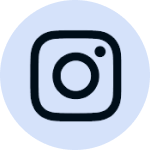
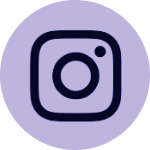
novo design

diff --git a/src/pages/Forms.jsx b/src/pages/Forms.jsx
@@ -44,24 +44,24 @@ export default function Forms() {
                         placeholder="Nome" 
                         onChange={(e) => setName(e.target.value)}
                         value={name}
-                        className="bg-foxus placeholder:text-ph mb-10 border-b-8 border-spectrum py-2 focus:outline-none text-3xl rounded-b-md"/>
+                        className="bg-foxus placeholder:text-ph mb-10 border-b-8 border-tpg py-2 focus:outline-none text-3xl rounded-b-md"/>
 
                         <input 
                         type="email" 
                         placeholder="E-mail"
                         onChange={(e) => setEmail(e.target.value)}
                         value={email}
-                        className="bg-foxus placeholder:text-ph mb-10 border-b-8 border-spectrum py-2 focus:outline-none text-3xl rounded-b-md"/>
+                        className="bg-foxus placeholder:text-ph mb-10 border-b-8 border-tpg py-2 focus:outline-none text-3xl rounded-b-md"/>
 
                         <input
                         type="text" 
                         placeholder="Mensagem" 
                         onChange={(e) => setMessage(e.target.value)}
                         value={message}
-                        className="bg-foxus placeholder:text-ph mb-10 border-b-8 border-spectrum py-2 focus:outline-none text-3xl rounded-b-md"/>
+                        className="bg-foxus placeholder:text-ph mb-10 border-b-8 border-tpg py-2 focus:outline-none text-3xl rounded-b-md"/>
 
                         <div className="flex justify-center mt-10">
-                            <button type='submit' value="enviar" className="px-16 py-4 bg-spectrum text-foxus font-bold rounded-full focus:outline-none text-4xl">Enviar</button>
+                            <button type='submit' value="enviar" className="px-16 py-4 bg-tpg text-foxus font-bold rounded-full focus:outline-none text-4xl">Enviar</button>
                         </div>
 
                     </form>

diff --git a/src/pages/Novidades.jsx b/src/pages/Novidades.jsx
@@ -32,7 +32,7 @@ export default function Novidades() {
             </div>
 
             <div className="flex justify-center">
-                <div className="md:text-[40px] text-[25px] md:mt-16 mt-10 md:w-9/12 w-11/12 text-center md:leading-tight text-spectrum/40">
+                <div className="md:text-[40px] text-[25px] md:mt-16 mt-10 md:w-9/12 w-11/12 text-center md:leading-tight text-tpg/90">
                     <p>
                     Registre seu e-mail para receber novidades sobre o lançamento do app!
                     </p>
@@ -45,10 +45,10 @@ export default function Novidades() {
                     placeholder="E-mail"
                     onChange={(e) => setEmail(e.target.value)}
                     value={email} 
-                    className="bg-foxus placeholder:text-ph mb-10 border-b-8 border-spectrum py-2 focus:outline-none text-3xl rounded-b-md"/>
+                    className="bg-foxus placeholder:text-ph mb-10 border-b-8 border-tpg py-2 focus:outline-none text-3xl rounded-b-md"/>
 
                     <div className="flex justify-center mt-10">
-                        <button type="submit" className="px-16 py-4 bg-spectrum text-foxus font-bold rounded-full focus:outline-none text-4xl">Registrar</button>
+                        <button type="submit" className="px-16 py-4 bg-tpg text-foxus font-bold rounded-full focus:outline-none text-4xl">Registrar</button>
                     </div>
                 </form>
             </div>

diff --git a/src/pages/Projeto.jsx b/src/pages/Projeto.jsx
@@ -1,0 +1,30 @@
+import Carrossel from "../components/Carrossel"
+
+export default function Projeto() {
+    return(
+        <>
+        <div className="flex flex-col md:pt-24">
+            <div>
+                <div className="flex justify-center md:pt-10 pt-10">
+                    <h1 className="md:text-6xl text-5xl md:w-full w-11/12 text-center">Nosso projeto</h1>
+                </div>
+            </div>
+            <div className="flex flex-row">
+                <div className="flex justify-center space-x-52">
+                    <div className="md:text-[30px] md:mt-16 md:w-4/12 text-start mt-10 text-xl w-11/12 md:leading-tight space-y-5 text-tpg/90">
+                        <p>
+
+                            A versão beta do nosso aplicativo contará com funções como mood tracker, agenda compartilhada, to-do, organização e monitoração de medicamentos e um botão de emergência para crises, facilitando a organização da pessoa neurodivergente e de sua família, e também permitindo um monitoramento mais amplo sobre suas crises. O app também inclui implementação da linguagem C.A.A e acesso rápido a histórias socias.
+
+                        </p>
+                    </div>
+                    <div className="md:flex md:items-center">
+                        <Carrossel />
+                    </div>
+                </div>
+            </div>
+        </div>
+        </>
+        
+    )
+}

diff --git a/src/components/Navbar.jsx b/src/components/Navbar.jsx
@@ -19,7 +19,7 @@ export default function Navbar() {
           </button>
         </div>
         <div className='hidden lg:block'>
-            <ul className={`flex flex-row items-center text-foxus text-2xl font-bold space-x-16`}>
+            <ul className={`flex flex-row items-center text-nav text-2xl font-bold space-x-16`}>
                 <li><a href="#sobre">Sobre nós</a></li>
                 <li><a href="#contato">Contato</a></li>
                 <li><a href="#novas">Novidades</a></li>
@@ -27,7 +27,7 @@ export default function Navbar() {
         </div>
       </div>
       <div className="lg:hidden bg-[#a5adb9] px-2">
-            <ul className={`py-2 flex flex-row justify-center items-center text-foxus md:text-xl text-lg font-bold space-x-8 ${isOpen ? 'flex' : 'hidden'} lg:flex`}>
+            <ul className={`py-2 flex flex-row justify-center items-center text-nav md:text-xl text-lg font-bold space-x-8 ${isOpen ? 'flex' : 'hidden'} lg:flex`}>
                 <li><a href="#sobre">Sobre nós</a></li>
                 <li><a href="#contato">Contato</a></li>
                 <li><a href="#novas">Novidades</a></li>

diff --git a/src/pages/Equipe.jsx b/src/pages/Equipe.jsx
@@ -12,7 +12,7 @@ function cards(foto, nome, linkInsta, linkedIn) {
     return (
             <div className="flex flex-col items-center mt-7">
                 <img src={foto} alt="" className="md:size-36 size-32 rounded-full mb-3"/>
-                <h1 className="mb-3 md:text-2xl text-center text-xl text-spectrum">{nome}</h1>
+                <h1 className="mb-3 md:text-2xl text-center text-xl text-tpg">{nome}</h1>
                 <div className="flex flex-row space-x-3">
                     <a href={linkInsta}><img src={ImgInsta} alt="" className="w-12"/></a>
                     <a href={linkedIn}><img src={ImgLinkedin} alt="" className="w-12"/></a>

diff --git a/src/pages/Sobre.jsx b/src/pages/Sobre.jsx
@@ -10,7 +10,7 @@ export default function Sobre() {
             </div>
             
             <div className="flex justify-center">
-                <div className="md:text-[30px] md:mt-16 md:w-10/12 text-start mt-10 text-xl w-11/12 md:leading-tight space-y-5 text-spectrum/40">
+                <div className="md:text-[30px] md:mt-16 md:w-10/12 text-start mt-10 text-xl w-11/12 md:leading-tight space-y-5 text-tpg/90">
                     <p>
                         A foxpectrum é uma startup desenvolvida por um grupo de estudantes do ensino médio técnico.
                     </p>

diff --git a/src/pages/Pagina.jsx b/src/pages/Pagina.jsx
@@ -3,11 +3,13 @@ import Forms from "./Forms"
 import Novidades from "./Novidades"
 import Sobre from "./Sobre"
 import ImgInsta from "../../public/icon insta.png"
+import Projeto from "./Projeto"
 
 export default function Pagina() {
     return(
-            <div className="text-spectrum ">
+            <div className="text-tpg">
                 <Sobre />
+                <Projeto />
                 <Equipe />
                 <Forms />
                 <Novidades />

diff --git a/tailwind.config.js b/tailwind.config.js
@@ -10,9 +10,11 @@ export default {
         'offside': ['Offside', 'sans-serif']
       },
       colors: {
-        'foxus': '#11101C',
-        'spectrum': "#E2EDFE",
-        'ph': "#54526D"
+        'foxus': '#F0F0F0',
+        'spectrum': "#D6C8E1",
+        'ph': "#54526D",
+        'nav': "#11101C",
+        'tpg': "#8456B7"
       }
     },
   },

diff --git a/src/components/Carrossel.jsx b/src/components/Carrossel.jsx
@@ -1,0 +1,7 @@
+export default function Carrossel() {
+    return(
+        <>
+        <div className="w-[408px] h-[615px] bg-tpg"></div>
+        </>
+    )
+}
